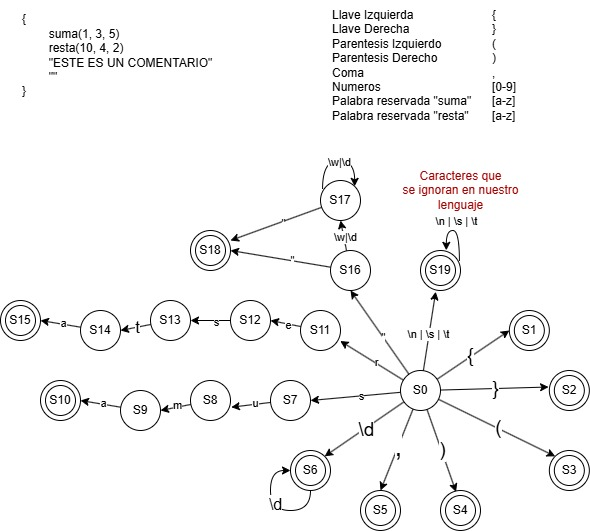
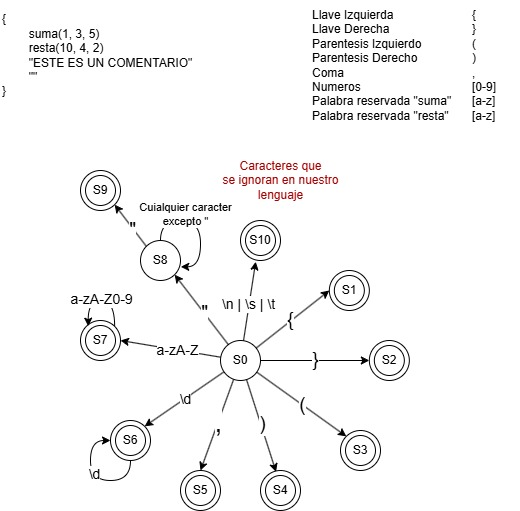
[UPDATE] Implementación AFD Ejemplo Clase 6

diff --git a/Clase6/src/Scanner/Scanner.java b/Clase6/src/Scanner/Scanner.java
@@ -55,57 +55,57 @@ public class Scanner {
     }
 
     private Token S1() {
-        iniciarBuffer(next_char);
         return new Token(TOK.TK_llaveIzq, getBuffer(), char_line, char_col);
     }
 
     private Token S2() {
-        iniciarBuffer(next_char);
         return new Token(TOK.TK_llaveDer, getBuffer(), char_line, char_col);
     }
 
     private Token S3() {
-        iniciarBuffer(next_char);
         return new Token(TOK.TK_parIzq, getBuffer(), char_line, char_col);
     }
 
     private Token S4() {
-        iniciarBuffer(next_char);
         return new Token(TOK.TK_parDer, getBuffer(), char_line, char_col);
     }
 
     private Token S5() {
-        iniciarBuffer(next_char);
         return new Token(TOK.TK_coma, getBuffer(), char_line, char_col);
     }
 
     private Token S6() {
-        iniciarBuffer(next_char);
-        while(Character.isDigit(next_char = input[char_pos])) {
+        if(Character.isDigit(next_char = input[char_pos])) {
             agregarBuffer(next_char);
+            return S6();
         }
         return new Token(TOK.TK_numero, getBuffer(), char_line, char_col);
     }
 
-    private Token S7_S15() {
-        iniciarBuffer(next_char);
-        while(Character.isLetterOrDigit(next_char = input[char_pos])) {
+    private Token S7() {
+        if(Character.isLetterOrDigit(next_char = input[char_pos])) {
             agregarBuffer(next_char);
+            return S7();
         }
         TOK resultado = keywords.getOrDefault(buffer, null);
         if(resultado == TOK.KW_suma || resultado == TOK.KW_resta) {
             return new Token(resultado, getBuffer(), char_line, char_col);
         }
+        errores.add(new Error(TipoError.LEXICO, getBuffer(), char_line, char_col));
         return null;
     }
 
-    private void S16_S18() {
-        iniciarBuffer(next_char);
-        while((next_char = input[char_pos]) != '"') {
+    private void S8() {
+        if((next_char = input[char_pos]) != '"') {
             agregarBuffer(next_char);
+            S8();
+            return;
         }
         agregarBuffer(next_char);
+        S9();
     }
+
+    private void S9() {}
 
     // Extrae un token cada vez que se llama a la función
     public Token next_token() {
@@ -118,41 +118,50 @@ public class Scanner {
             // Tokens y palabras reservadas
             // Estado S1
             if(next_char == '{') {
+                iniciarBuffer(next_char);
                 return S1();
             }
             // Estado S2
             if(next_char == '}') {
+                iniciarBuffer(next_char);
                 return S2();
             }
             // Estado S3
             if(next_char == '(') {
+                iniciarBuffer(next_char);
                 return S3();
             }
             // Estado S4
             if(next_char == ')') {
+                iniciarBuffer(next_char);
                 return S4();
             }
             // Estado S5
             if(next_char == ',') {
+                iniciarBuffer(next_char);
                 return S5();
             }
             // Estado S6: Numeros
             if(Character.isDigit(next_char)) {
+                iniciarBuffer(next_char);
                 return S6();
             }
-            // Estados S7-S15: Reservadas
+            // Estados S7: Reservadas
             if(Character.isLetter(next_char)) {
-                if((token_tmp = S7_S15()) != null) {
+                iniciarBuffer(next_char);
+                if((token_tmp = S7()) != null) {
                     return token_tmp;
                 }
+                continue;
             }
-            // Estado S16: Comentarios (Se ingnoran)
+            // Estado S8: Comentarios (Se ingnoran)
             if(next_char == '"') {
-                S16_S18();
+                iniciarBuffer(next_char);
+                S8();
                 continue;
             }
 
-            // Estado S19: Caracteres que se van a ignorar
+            // Estado S10: Caracteres que se van a ignorar
             if(next_char == ' ') {
                 char_col ++;
             } else if(next_char == '\t') {
